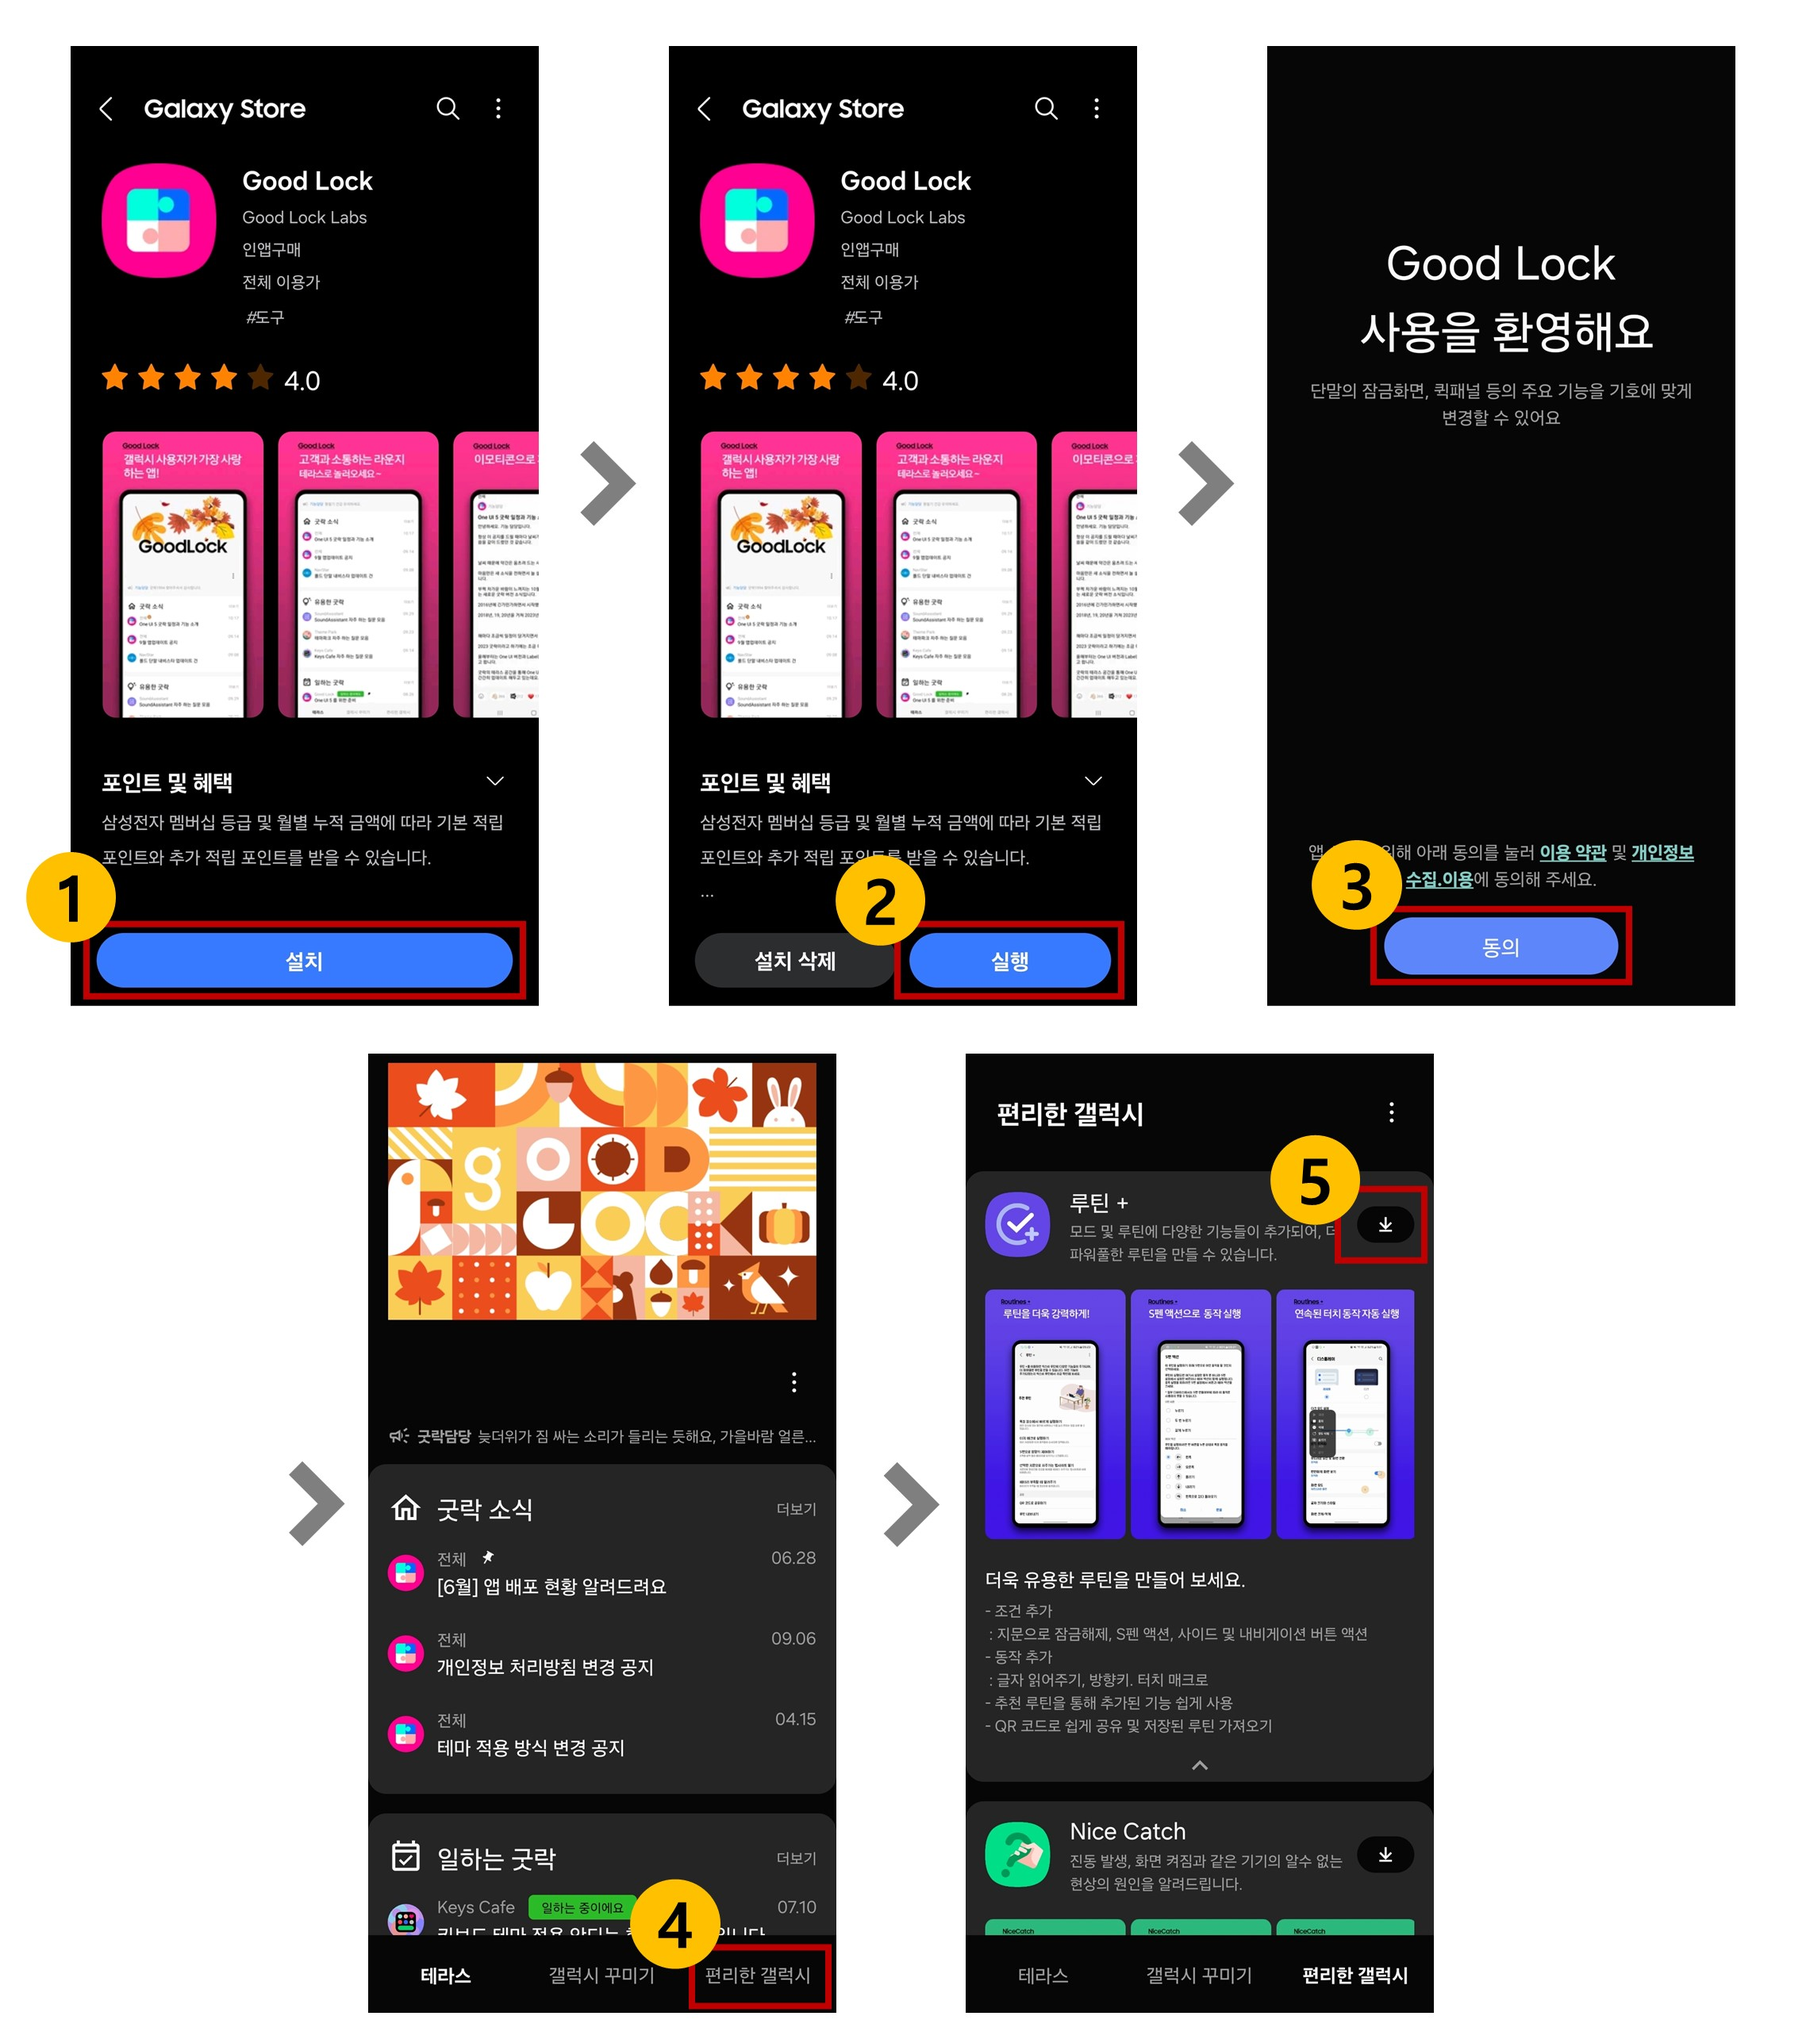
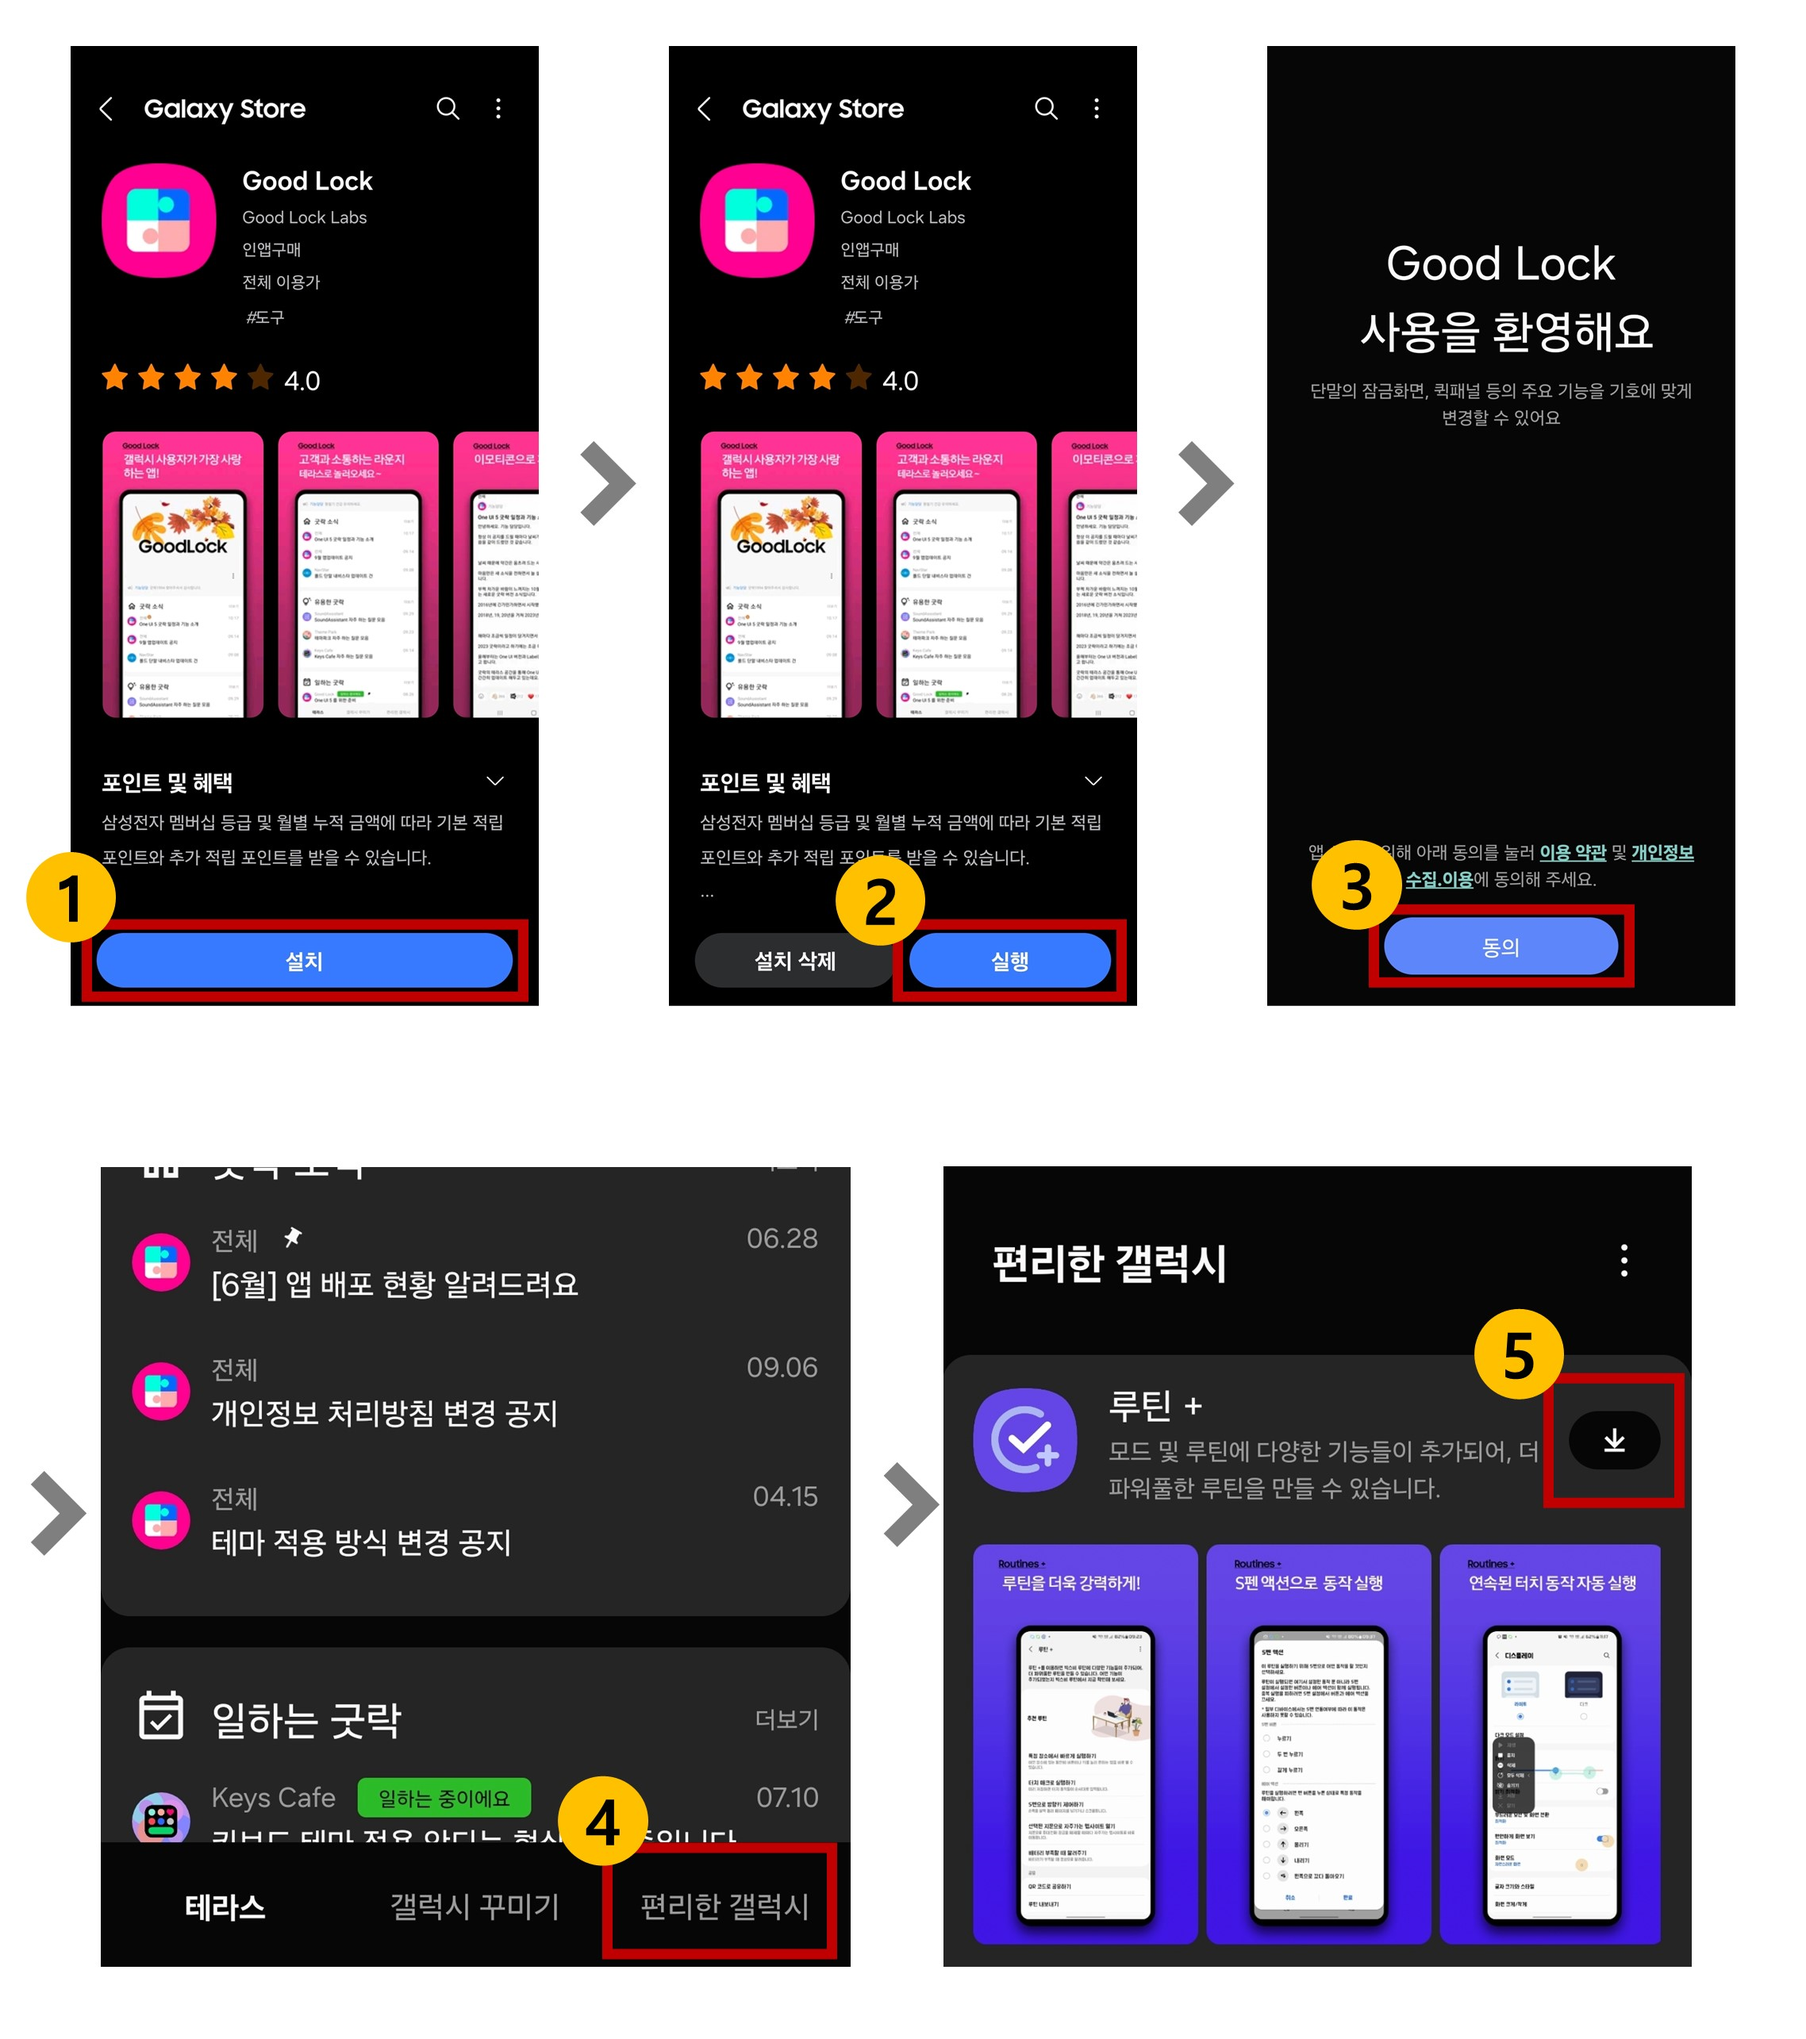
[mod] 이미지 수정, 번호 스타일 수정

diff --git a/index.html b/index.html
@@ -11,6 +11,23 @@
 		<meta name="viewport" content="width=device-width, initial-scale=1, user-scalable=no" />
 		<link rel="stylesheet" href="assets/css/main.css" />
 		<noscript><link rel="stylesheet" href="assets/css/noscript.css" /></noscript>
+		<style>
+			.circle {
+				display: inline-block;
+				width: 17px;
+				height: 17px;
+				line-height: 17px;
+				border-radius: 50%;
+				background-color: #FFC000;
+				color: black;
+				text-align: center;
+				font-weight: bold;
+				margin-right: 5px;
+			}
+			.linkblue {
+				color: #0056ff;
+			}
+		</style>
 	</head>
 	<body class="is-preload">
 
@@ -39,12 +56,12 @@
 								</h2>
 							</header>
 							<p>
-								1. <a href="https://apps.samsung.com/appquery/appDetail.as?appId=com.samsung.android.goodlock">링크</a>를 클릭해 앱을 설치해주세요.
-								<br/><a href="https://apps.samsung.com/appquery/appDetail.as?appId=com.samsung.android.goodlock">app.samsung.com/goodLock</a>
-								<br/>2. 앱을 설치하고 실행해주세요.
-								<br/>3. 앱 실행 후 약관에 동의해주세요.
-								<br/>4. 오른쪽 아래 '편리한 갤럭시'를 클릭하세요.
-								<br/>5. 화면을 스크롤해 '루틴+'를 다운로드 하세요.
+								<span class="circle">1</span> <a class="linkblue" href="https://apps.samsung.com/appquery/appDetail.as?appId=com.samsung.android.goodlock">링크</a>를 클릭해 앱을 설치해주세요.
+								<br/><a class="linkblue" href="https://apps.samsung.com/appquery/appDetail.as?appId=com.samsung.android.goodlock">app.samsung.com/goodLock</a>
+								<br/><span class="circle">2</span> 앱을 설치하고 실행해주세요.
+								<br/><span class="circle">3</span> 앱 실행 후 약관에 동의해주세요.
+								<br/><span class="circle">4</span> 오른쪽 아래 '편리한 갤럭시'를 클릭하세요.
+								<br/><span class="circle">5</span> 화면을 스크롤해 '루틴+'를 다운로드 하세요.
 							</p>
 						</div>
 						<div class="col-6 col-12-medium imp-medium">
@@ -65,9 +82,9 @@
 								</h2>
 							</header>
 							<p>
-								<a href="routineplus://share_routine_qr?json_data=AAABnh%2BLCAAAAAAAAACljjFOAzEQRa%2BCXIfFTkh2iY9CUDSyzcoiHq%2FW3m2idCnS01BABRKIKgfI%0D%0AjbyHYBxCFyQkpvjzR5qv%2F9ZMe9U5g3FpNZsz5V0RwIUO6wJQt97qApqmaH0XLZqwuDo5NmK9aYP1%0D%0ASClBF4IzZIfXw%2FByGJ52ab%2B%2FSO9vabtLnx%2Fp8ZlelEdtI0UCm9%2BuWQPqAWrzh1bKRqjpMVqXmy3G%0D%0ATNxACy7Xz8qyHIuZrCSXYkLC5T2sgjm6H39TcVHy62oiheS%2FjThqrghLNDVE2xPgpdjcjRiof7H3%0D%0AftWdox9n6Kmcfi9xWucQNl%2FmUuUjrgEAAA%3D%3D">링크</a>를 클릭해 루틴을 등록하세요.
-								<br/><a href="routineplus://share_routine_qr?json_data=AAABnh%2BLCAAAAAAAAACljjFOAzEQRa%2BCXIfFTkh2iY9CUDSyzcoiHq%2FW3m2idCnS01BABRKIKgfI%0D%0AjbyHYBxCFyQkpvjzR5qv%2F9ZMe9U5g3FpNZsz5V0RwIUO6wJQt97qApqmaH0XLZqwuDo5NmK9aYP1%0D%0ASClBF4IzZIfXw%2FByGJ52ab%2B%2FSO9vabtLnx%2Fp8ZlelEdtI0UCm9%2BuWQPqAWrzh1bKRqjpMVqXmy3G%0D%0ATNxACy7Xz8qyHIuZrCSXYkLC5T2sgjm6H39TcVHy62oiheS%2FjThqrghLNDVE2xPgpdjcjRiof7H3%0D%0AftWdox9n6Kmcfi9xWucQNl%2FmUuUjrgEAAA%3D%3D">routineplus.regist</a>
-								<br/>6. 저장버튼을 누르면 완료됩니다.
+								<a class="linkblue" href="routineplus://share_routine_qr?json_data=AAABnh%2BLCAAAAAAAAACljjFOAzEQRa%2BCXIfFTkh2iY9CUDSyzcoiHq%2FW3m2idCnS01BABRKIKgfI%0D%0AjbyHYBxCFyQkpvjzR5qv%2F9ZMe9U5g3FpNZsz5V0RwIUO6wJQt97qApqmaH0XLZqwuDo5NmK9aYP1%0D%0ASClBF4IzZIfXw%2FByGJ52ab%2B%2FSO9vabtLnx%2Fp8ZlelEdtI0UCm9%2BuWQPqAWrzh1bKRqjpMVqXmy3G%0D%0ATNxACy7Xz8qyHIuZrCSXYkLC5T2sgjm6H39TcVHy62oiheS%2FjThqrghLNDVE2xPgpdjcjRiof7H3%0D%0AftWdox9n6Kmcfi9xWucQNl%2FmUuUjrgEAAA%3D%3D">링크</a>를 클릭해 루틴을 등록하세요.
+								<br/><a class="linkblue" href="routineplus://share_routine_qr?json_data=AAABnh%2BLCAAAAAAAAACljjFOAzEQRa%2BCXIfFTkh2iY9CUDSyzcoiHq%2FW3m2idCnS01BABRKIKgfI%0D%0AjbyHYBxCFyQkpvjzR5qv%2F9ZMe9U5g3FpNZsz5V0RwIUO6wJQt97qApqmaH0XLZqwuDo5NmK9aYP1%0D%0ASClBF4IzZIfXw%2FByGJ52ab%2B%2FSO9vabtLnx%2Fp8ZlelEdtI0UCm9%2BuWQPqAWrzh1bKRqjpMVqXmy3G%0D%0ATNxACy7Xz8qyHIuZrCSXYkLC5T2sgjm6H39TcVHy62oiheS%2FjThqrghLNDVE2xPgpdjcjRiof7H3%0D%0AftWdox9n6Kmcfi9xWucQNl%2FmUuUjrgEAAA%3D%3D">routineplus.regist</a>
+								<br/><span class="circle">6</span> 저장버튼을 누르면 완료됩니다.
 							</p>
 						</div>
 						<div class="col-6 col-12-medium imp-medium">
